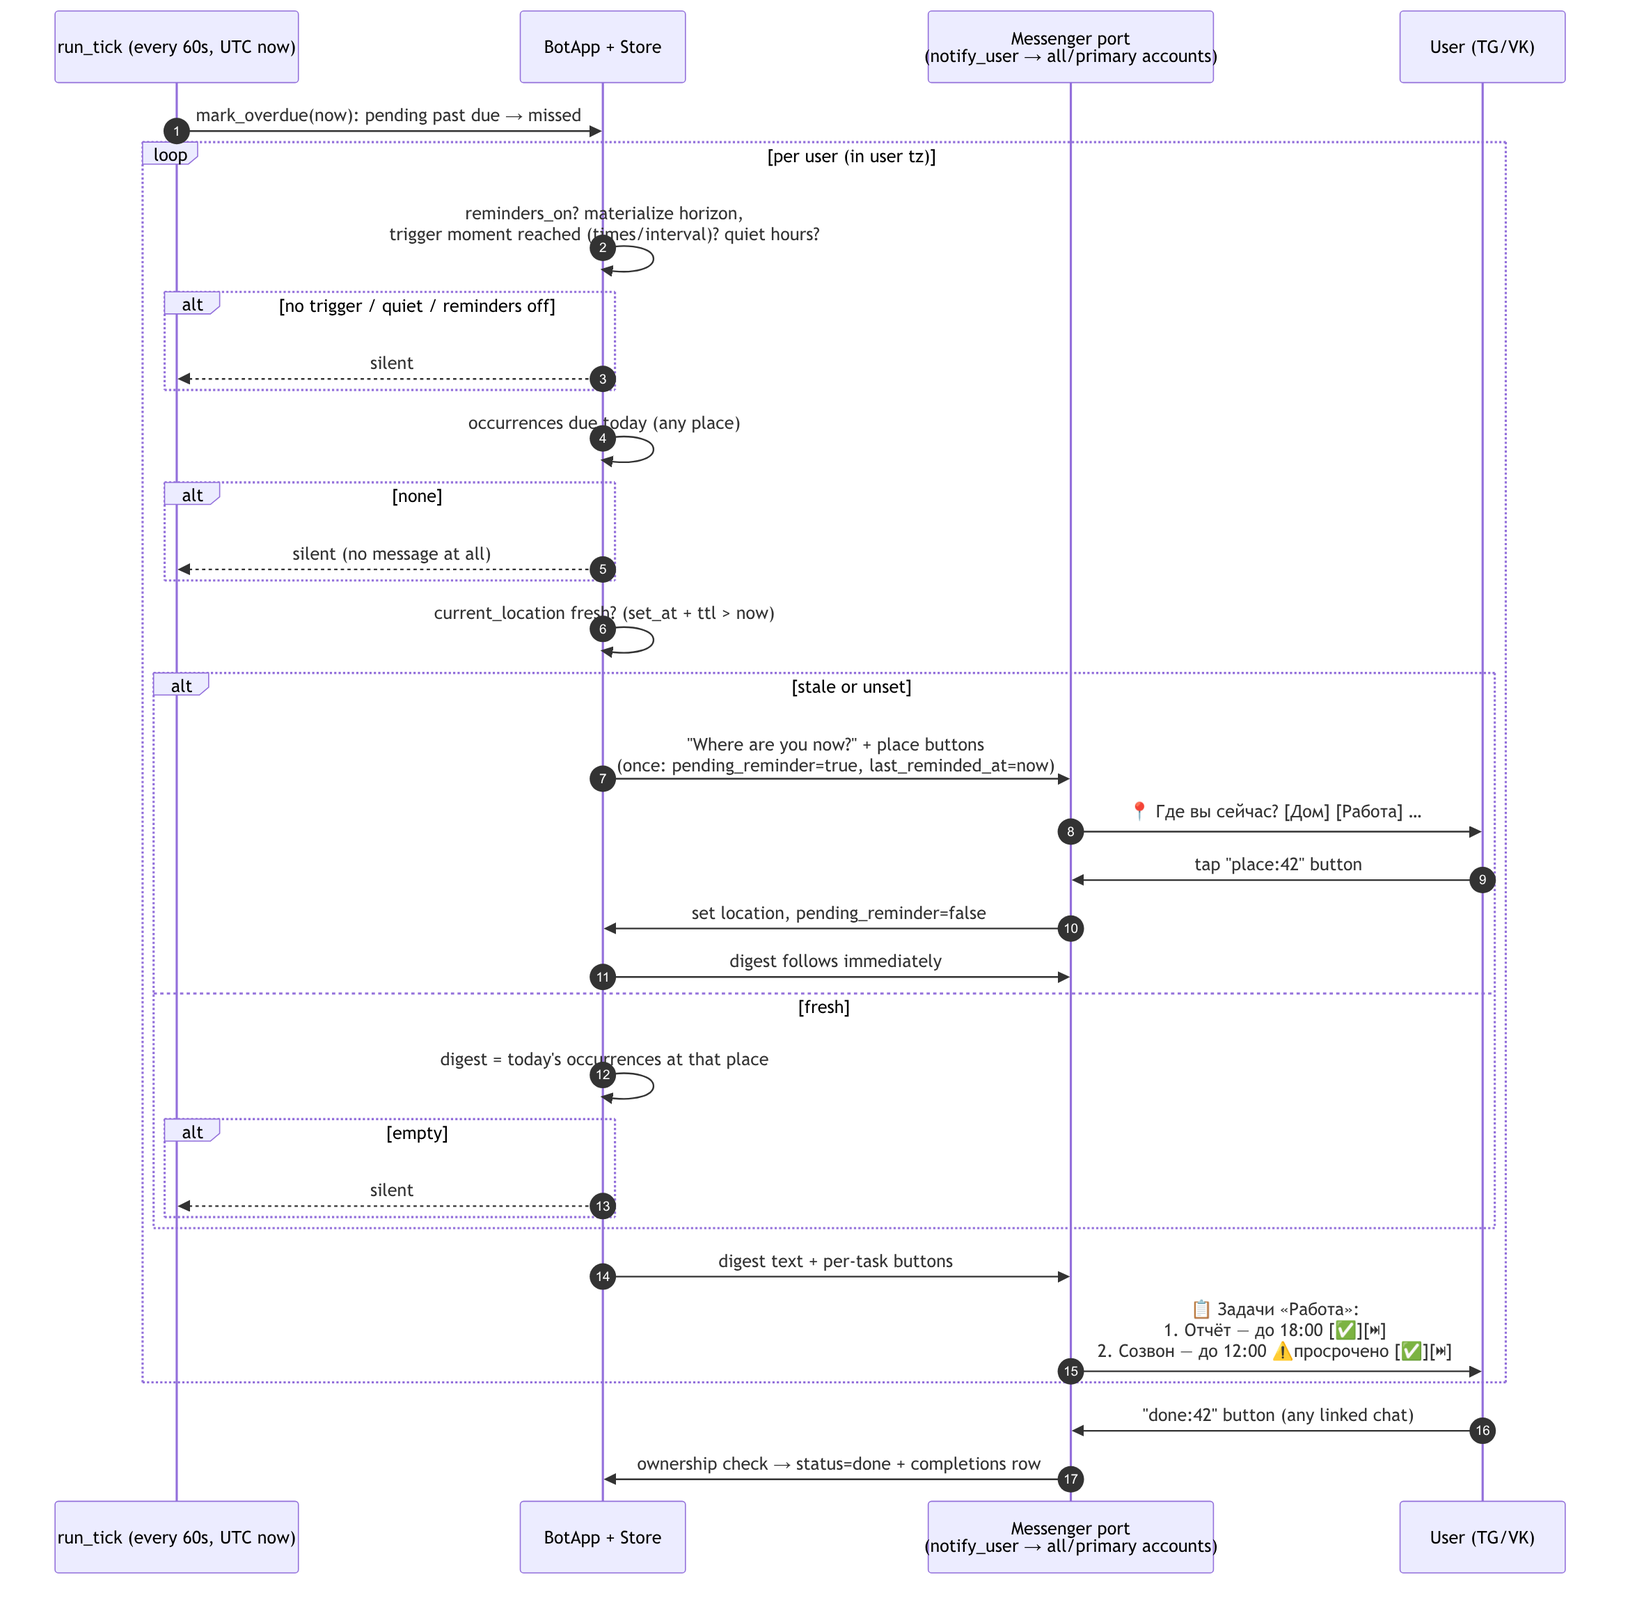
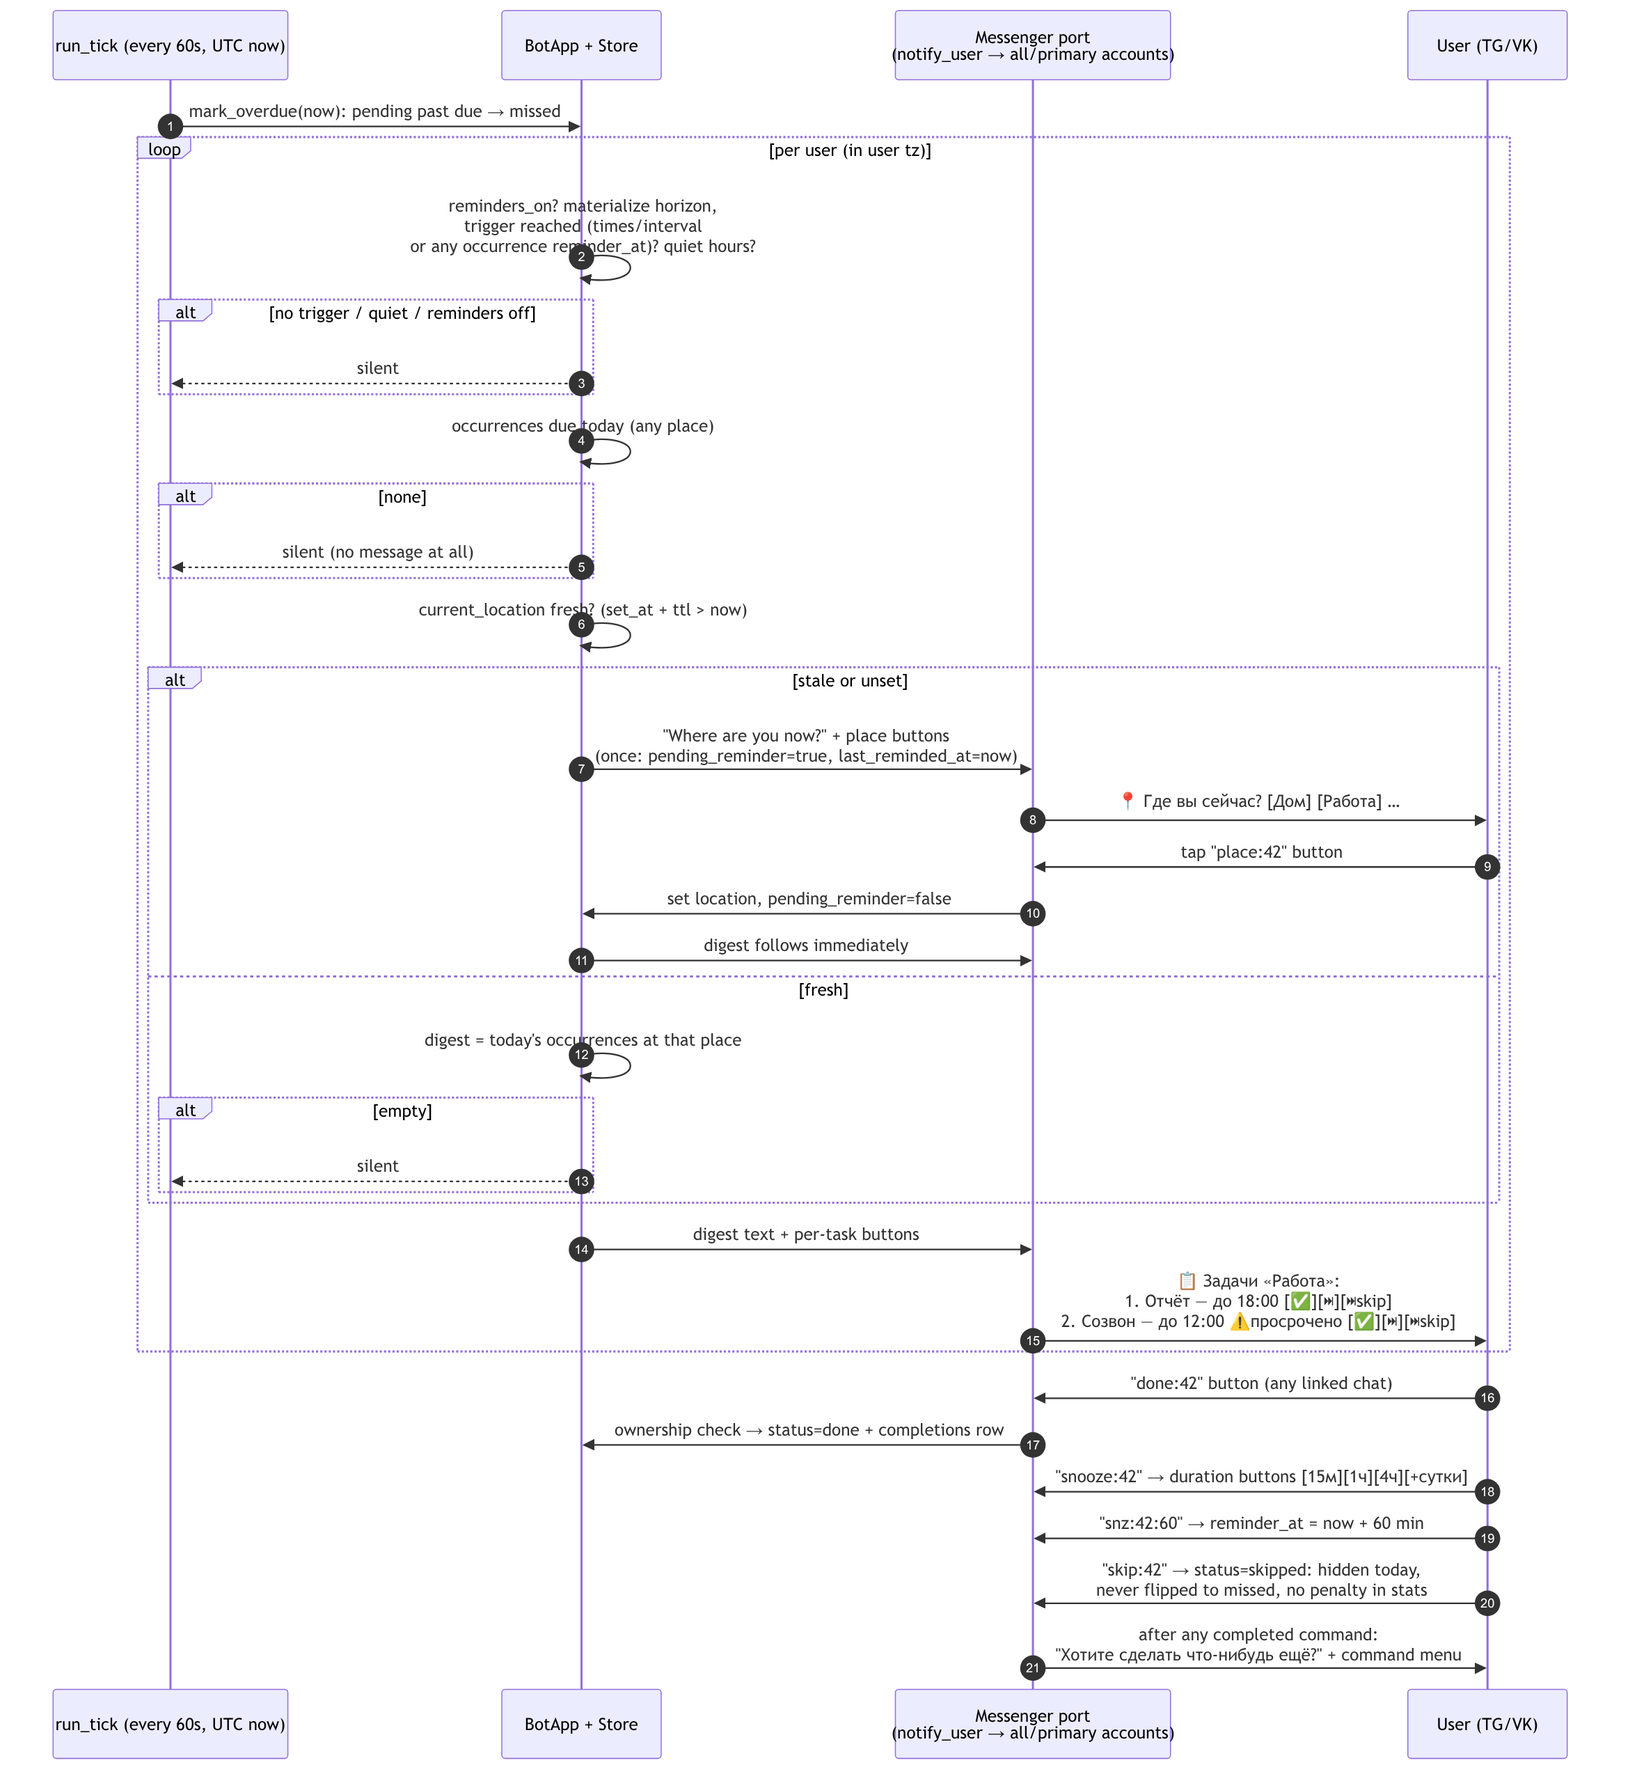
feat(bot): wizard fixes + cancel button; diagrams updated to current logic
- edit_message fix: Telethon takes the message id as 2nd positional and
  the new text as text= (previous call raised TypeError, so every tap
  re-sent a fresh message)
- weekday buttons split 4+3: seven narrow buttons made clients elide
  labels with a check mark to an ellipsis
- the first wizard step (title) gets a ✖ Отмена button
- AGENTS.md: drop the repo-specific git identity/remote note; add the
  rule to update .mmd diagrams whenever behavior/flows change
- diagrams refreshed: skipped status, digest buttons with skip, snooze
  duration picker, menu follow-up; PNGs re-rendered, docs/README feature
  lists aligned with current behavior

diff --git a/taskshed/bot/app.py b/taskshed/bot/app.py
@@ -273,7 +273,7 @@ class BotApp:
 
     async def _cmd_task(self, ctx: Ctx, _: str) -> None:
         self.wizards[ctx.user.id] = {"kind": "task", "step": "title", "data": {}, "days": set()}
-        await ctx.reply(t("wizard_ask_title", ctx.lang))
+        await self._ask_step(ctx, self.wizards[ctx.user.id])
 
     async def _cmd_places(self, ctx: Ctx, arg: str) -> None:
         places = await self.store.list_places(ctx.user.id)
@@ -456,7 +456,8 @@ class BotApp:
         """Ask (or re-ask after Назад) the question for the current step."""
         step, back = w["step"], self._back_row(ctx, w)
         if step == "title":
-            await ctx.reply(t("wizard_ask_title", ctx.lang), back or None)
+            await ctx.reply(t("wizard_ask_title", ctx.lang),
+                            (back or []) + [[(t("btn_wz_cancel", ctx.lang), "wz:cancel")]])
         elif step == "place":
             await ctx.place_buttons("wizard_ask_place", back)
         elif step == "schedule":
@@ -644,6 +645,12 @@ class BotApp:
                 return
             w["step"] = w["hist"].pop()
             await self._ask_step(ctx, w)
+        elif action == "wz" and arg == "cancel":
+            # ✖ Отмена on the first wizard step (typing /отмена also works)
+            w = self.wizards.get(ctx.user.id)
+            if w and w.get("kind") == "task":
+                self.wizards.pop(ctx.user.id, None)
+                await ctx.reply(t("wizard_cancelled", ctx.lang))
         elif action == "menu" and arg == "back":
             # submenu screens offer ⬅ Назад: return to the main command menu
             if self.wizards.get(ctx.user.id, {}).get("kind") == "addplace":
@@ -735,9 +742,11 @@ class BotApp:
 
     async def _wd_buttons(self, ctx: Ctx, w: dict) -> None:
         # chosen days carry a ✅; on Telegram the message is edited in place
-        # instead of sending a fresh one per tap
-        rows = [[(("✅ " if i in w["days"] else "") + t(k, ctx.lang), f"wd:{i}")
-                 for i, k in enumerate(WD_KEYS)],
+        # instead of sending a fresh one per tap. Days split 4+3: seven tiny
+        # buttons per row get elided to "…" by clients once ✅ is added.
+        day_btns = [(("✅ " if i in w["days"] else "") + t(k, ctx.lang), f"wd:{i}")
+                    for i, k in enumerate(WD_KEYS)]
+        rows = [day_btns[:4], day_btns[4:],
                 [(t("wd_done", ctx.lang), "wdsubmit")]] + self._back_row(ctx, w)
         text = t("wizard_ask_days", ctx.lang)
         mid = w.get("wd_msg")

diff --git a/taskshed/messaging/telegram.py b/taskshed/messaging/telegram.py
@@ -92,14 +92,15 @@ class TelegramAdapter:
     async def edit_buttons(self, account: Account, message_id: str, text: str,
                            buttons: ButtonRows) -> bool:
         try:
+            # Telethon signature: edit_message(entity, message=<id>, text=…)
             await self.client.edit_message(int(account.platform_user_id),
-                                           int(message_id), message=text,
+                                           int(message_id), text=text,
                                            buttons=inline_rows(buttons),
                                            parse_mode=None, link_preview=False)
             return True
         except Exception:  # deleted/stale message: caller re-sends instead
-            log.debug("edit_message failed (chat=%s id=%s)",
-                      account.platform_user_id, message_id)
+            log.info("edit_message failed (chat=%s id=%s)",
+                     account.platform_user_id, message_id)
             return False
 
     async def send_image(self, account: Account, path: str, caption: str = "") -> None:

diff --git a/tests/test_handlers.py b/tests/test_handlers.py
@@ -667,3 +667,14 @@ class TestWizardDaysToggle:
         await app.handle(RawEvent("telegram", PID, callback="wd:4"))
         labels = [lbl for row in fake.last_buttons() for lbl, _ in row]
         assert sum(1 for lbl in labels if lbl.startswith("✅")) == 1
+
+
+class TestWizardCancelButton:
+    async def test_title_step_has_cancel_button(self, env):
+        app, store, fake = env
+        f = await send(env, "/задача")
+        flat = [cb for row in f.last_buttons() for _, cb in row]
+        assert "wz:cancel" in flat
+        await send(env, cb="wz:cancel")
+        assert fake.find("Отменено")
+        assert not app.wizards

diff --git a/docs/ru/architecture.md b/docs/ru/architecture.md
@@ -127,7 +127,7 @@ erDiagram
         int task_id FK "UNIQUE(task_id, due_at)"
         datetime due_at "deadline of this repeat, UTC"
         datetime reminder_at "when the reminder may fire"
-        string status "pending|done|missed"
+        string status "pending|done|missed|skipped"
     }
     completions {
         int occurrence_id PK "also FK to task_occurrences"
@@ -200,8 +200,10 @@ erDiagram
 `schedule_type`: `once` · `every_n_days` · `weekdays` · `monthly_day`,
 параметры в `schedule_data` (JSON). Срабатывания материализуются на несколько
 дней вперёд (`bot.occurrence_horizon_days`); у каждого `due_at`, `reminder_at`,
-`status ∈ {pending, done, missed}`. Фоновый проход переводит `pending` с
-истёкшим сроком в `missed`.
+`status ∈ {pending, done, missed, skipped}`. Фоновый проход переводит `pending`
+с истёкшим сроком в `missed`; пропущенная пользователем встреча становится
+`skipped` — она скрывается из списка на сегодня, никогда не становится
+`missed` и не портит процент выполнения.
 
 ### Тик напоминаний
 
@@ -216,7 +218,7 @@ sequenceDiagram
 
     Sch->>Core: mark_overdue(now): pending past due → missed
     loop per user (in user tz)
-        Core->>Core: reminders_on? materialize horizon,<br/>trigger moment reached (times/interval)? quiet hours?
+        Core->>Core: reminders_on? materialize horizon,<br/>trigger reached (times/interval<br/>or any occurrence reminder_at)? quiet hours?
         alt no trigger / quiet / reminders off
             Core-->>Sch: silent
         end
@@ -238,10 +240,14 @@ sequenceDiagram
             end
         end
         Core->>Msg: digest text + per-task buttons
-        Msg->>U: 📋 Задачи «Работа»:<br/>1. Отчёт — до 18:00 [✅][⏭]<br/>2. Созвон — до 12:00 ⚠просрочено [✅][⏭]
+        Msg->>U: 📋 Задачи «Работа»:<br/>1. Отчёт — до 18:00 [✅][⏭][⏭skip]<br/>2. Созвон — до 12:00 ⚠просрочено [✅][⏭][⏭skip]
     end
     U->>Msg: "done:42" button (any linked chat)
     Msg->>Core: ownership check → status=done + completions row
+    U->>Msg: "snooze:42" → duration buttons [15м][1ч][4ч][+сутки]
+    U->>Msg: "snz:42:60" → reminder_at = now + 60 min
+    U->>Msg: "skip:42" → status=skipped: hidden today,<br/>never flipped to missed, no penalty in stats
+    Msg->>U: after any completed command:<br/>"Хотите сделать что-нибудь ещё?" + command menu
 ```
 <!-- mermaid:end reminder-flow -->
 

diff --git a/docs/en/architecture.md b/docs/en/architecture.md
@@ -127,7 +127,7 @@ erDiagram
         int task_id FK "UNIQUE(task_id, due_at)"
         datetime due_at "deadline of this repeat, UTC"
         datetime reminder_at "when the reminder may fire"
-        string status "pending|done|missed"
+        string status "pending|done|missed|skipped"
     }
     completions {
         int occurrence_id PK "also FK to task_occurrences"
@@ -200,8 +200,10 @@ is what makes Telegram↔VK linking trivial.
 `schedule_type`: `once` · `every_n_days` · `weekdays` · `monthly_day`,
 parameters in `schedule_data` (JSON). Occurrences are materialized a few days
 ahead (`bot.occurrence_horizon_days`); each has `due_at`, `reminder_at`,
-`status ∈ {pending, done, missed}`. A background pass flips `pending` rows
-whose deadline passed to `missed`.
+`status ∈ {pending, done, missed, skipped}`. A background pass flips `pending`
+rows whose deadline passed to `missed`; a user-skipped occurrence becomes
+`skipped` — it is hidden from today's list, never turns into `missed` and
+does not count against the completion percent.
 
 ### Reminder tick
 
@@ -216,7 +218,7 @@ sequenceDiagram
 
     Sch->>Core: mark_overdue(now): pending past due → missed
     loop per user (in user tz)
-        Core->>Core: reminders_on? materialize horizon,<br/>trigger moment reached (times/interval)? quiet hours?
+        Core->>Core: reminders_on? materialize horizon,<br/>trigger reached (times/interval<br/>or any occurrence reminder_at)? quiet hours?
         alt no trigger / quiet / reminders off
             Core-->>Sch: silent
         end
@@ -238,10 +240,14 @@ sequenceDiagram
             end
         end
         Core->>Msg: digest text + per-task buttons
-        Msg->>U: 📋 Задачи «Работа»:<br/>1. Отчёт — до 18:00 [✅][⏭]<br/>2. Созвон — до 12:00 ⚠просрочено [✅][⏭]
+        Msg->>U: 📋 Задачи «Работа»:<br/>1. Отчёт — до 18:00 [✅][⏭][⏭skip]<br/>2. Созвон — до 12:00 ⚠просрочено [✅][⏭][⏭skip]
     end
     U->>Msg: "done:42" button (any linked chat)
     Msg->>Core: ownership check → status=done + completions row
+    U->>Msg: "snooze:42" → duration buttons [15м][1ч][4ч][+сутки]
+    U->>Msg: "snz:42:60" → reminder_at = now + 60 min
+    U->>Msg: "skip:42" → status=skipped: hidden today,<br/>never flipped to missed, no penalty in stats
+    Msg->>U: after any completed command:<br/>"Хотите сделать что-нибудь ещё?" + command menu
 ```
 <!-- mermaid:end reminder-flow -->
 

diff --git a/README.ru.md b/README.ru.md
@@ -16,14 +16,15 @@
 - Задачи разделены по **местам**, которые создаёте вы сами (`/места`).
 - Расписания: разовая задача со сроком, каждые N дней, конкретные дни недели,
   день месяца; каждый повтор — материализованное **срабатывание**, которое
-  можно отметить ✅ «Сделано» или ⏭ отложить прямо из напоминания.
+  можно отметить ✅ «Сделано», ⏭ отложить (15 мин/час/4 часа/сутки) или
+  ⏭ пропустить прямо из напоминания.
 - **Настройки напоминаний** для каждого пользователя: фиксированные времена
   либо интервал, тихие часы, часовой пояс, срок актуальности выбранного места.
 - **Без шума**: нет задач на сегодня — бот молчит; нет задач по текущему месту
   — тоже молчит. Место «протухло» — бот лишь спрашивает «Где вы сейчас?».
-- **Статистика**: текстовая сводка, выгрузка CSV/XLSX, PNG-графики
-  (столбцы по дням, тепловая карта активности в стиле GitHub с метками
-  пропущенных/запланированных, топ задач/мест, тренд
+- **Статистика**: текстовая сводка, выгрузка CSV/XLSX, PNG-графика
+  (тепловая карта активности в стиле GitHub с метками просроченных/
+  запланированных/пропущенных, топ задач/мест, тренд
   выполнения) — за любой период или за весь срок.
 - **Мультиаккаунт**: привяжите Telegram и VK одноразовым кодом (`/link`) —
   данные и напоминания общие.

diff --git a/AGENTS.md b/AGENTS.md
@@ -58,17 +58,16 @@ the user's current location ("home", "work"). Python 3.14 (`python3`), asyncio.
 
 - Commit messages: plain conventional-commit style, **no AI co-author trailers
   or AI markers** (owner's explicit choice — do not add them back).
-- GitHub: private repo `github.com/edombek/taskshed` (renamed from
-  `tg-bot-task-sheduler`), pushed with
-  `gh` (authenticated as `edombek`, ssh protocol). Global git identity is
-  `edombek <edombek@yandex.ru>` — do not override globally.
 - Docs: bilingual. `README.md` (English) + `README.ru.md` (Russian), cross-linked;
   mirrored `docs/en/` and `docs/ru/`; diagrams as Mermaid in `docs/diagrams/`
   (`.mmd` are the source of truth; docs/READMEs embed them as fenced ```mermaid
   blocks — GitHub renders those as vector — kept in sync by
   `scripts/sync_diagram_blocks.py` and guarded by `tests/test_docs_diagrams.py`;
   rendered 3x `.png` are committed and linked for offline readers, regenerate
-  with `scripts/render_diagrams.sh`);
+  with `scripts/render_diagrams.sh`). **When behavior/flows/schema change,
+  update the `.mmd` diagrams in the same commit** (statuses, buttons, new
+  interactions), then re-render PNGs and run `scripts/sync_diagram_blocks.py`
+  — the parity test only catches drifted copies, content staleness is on us);
   living checklist in `docs/PLAN.md`; `CHANGELOG.md` (Keep a Changelog).
   When code changes, update **both** language copies.
 - Tests: pytest (+pytest-asyncio). Chat-logic tests must go through the

diff --git a/README.md b/README.md
@@ -15,13 +15,14 @@ platform-independent core.
 - Tasks split by **places** you define yourself (`/places`).
 - Schedules: one-off with deadline, every N days, specific weekdays,
   day of month; every repeat is a materialized **occurrence** you can mark
-  ✅ done or ⏭ postpone right from the reminder message.
+  ✅ done, ⏭ postpone (15 min/1 h/4 h/1 day) or ⏭ skip right from the
+  reminder message.
 - Per-user **reminder settings**: fixed times or interval mode, quiet hours,
   time zone, how long your chosen location stays valid.
 - **No noise**: if you have no tasks today, or none match your current place,
   the bot says nothing. Stale location → it just asks "Where are you now?".
-- **Statistics**: text summary, CSV/XLSX export, PNG charts (daily bar,
-  GitHub-style activity heatmap with missed/planned markers, top tasks/places,
+- **Statistics**: text summary, CSV/XLSX export, PNG charts (GitHub-style
+  activity heatmap with missed/planned/skipped markers, top tasks/places,
   completion trend) — for any period or
   the whole history.
 - **Multi-account**: link your Telegram and VK identities with a one-time
